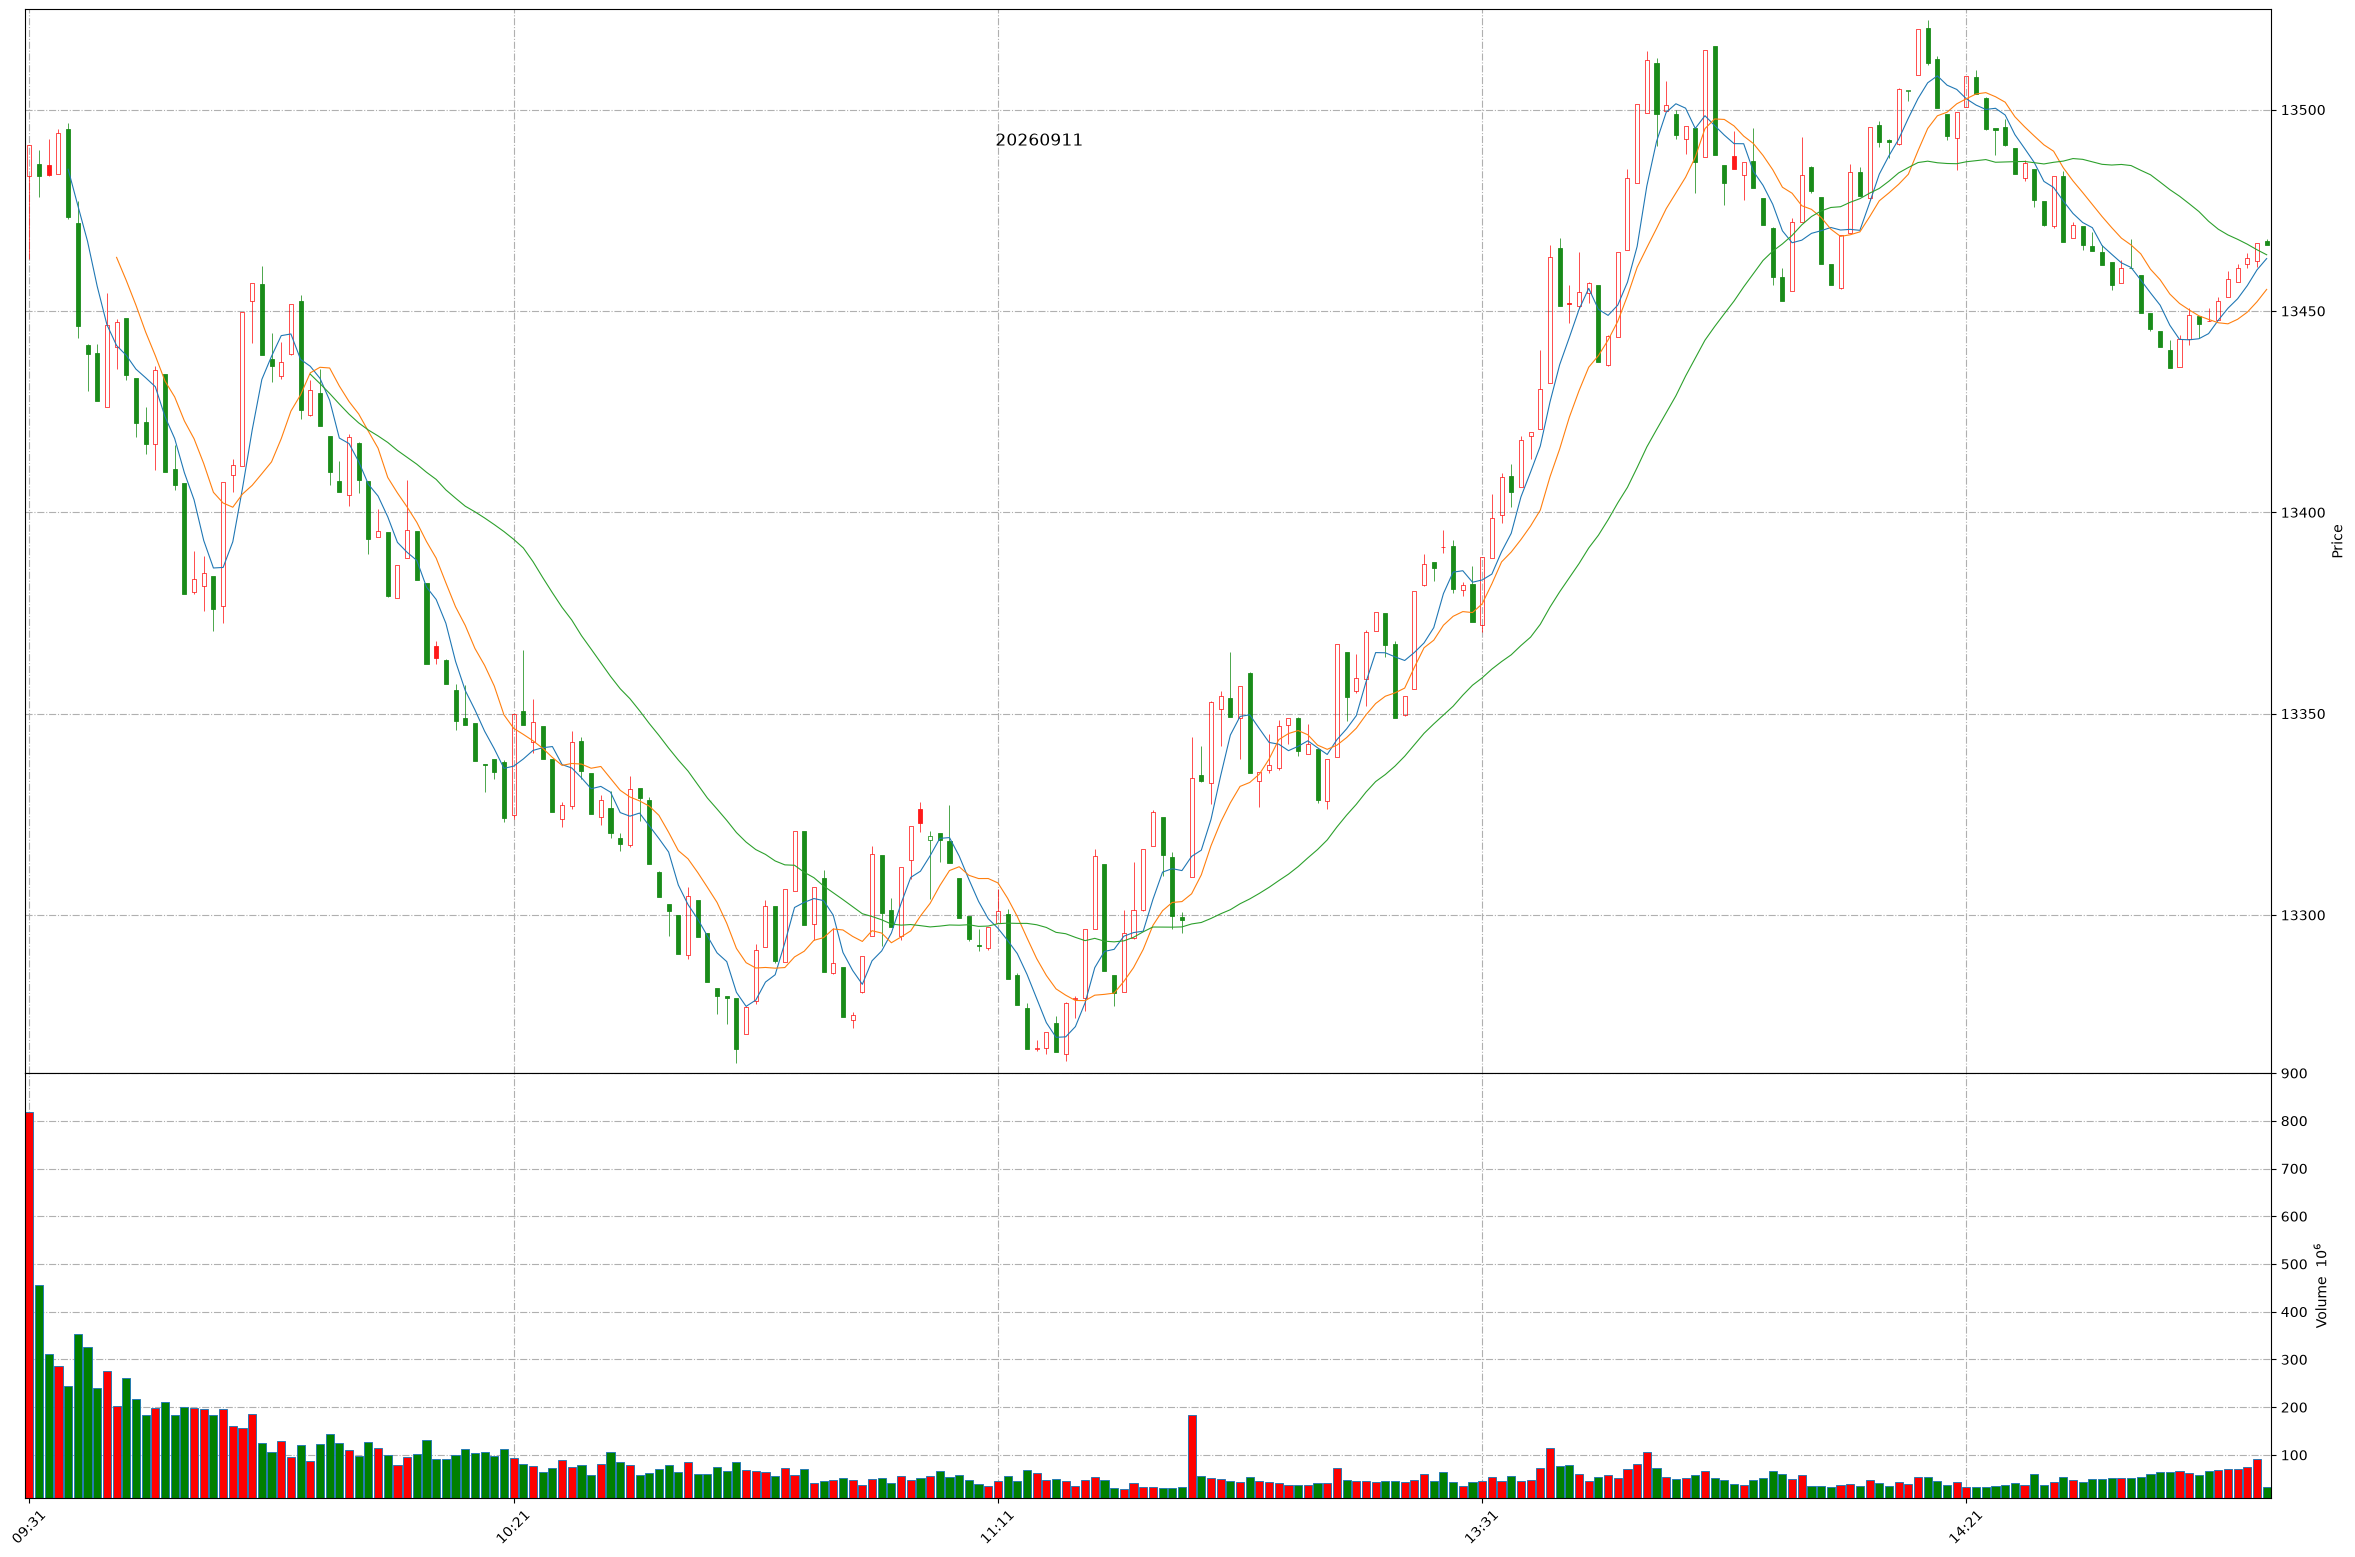
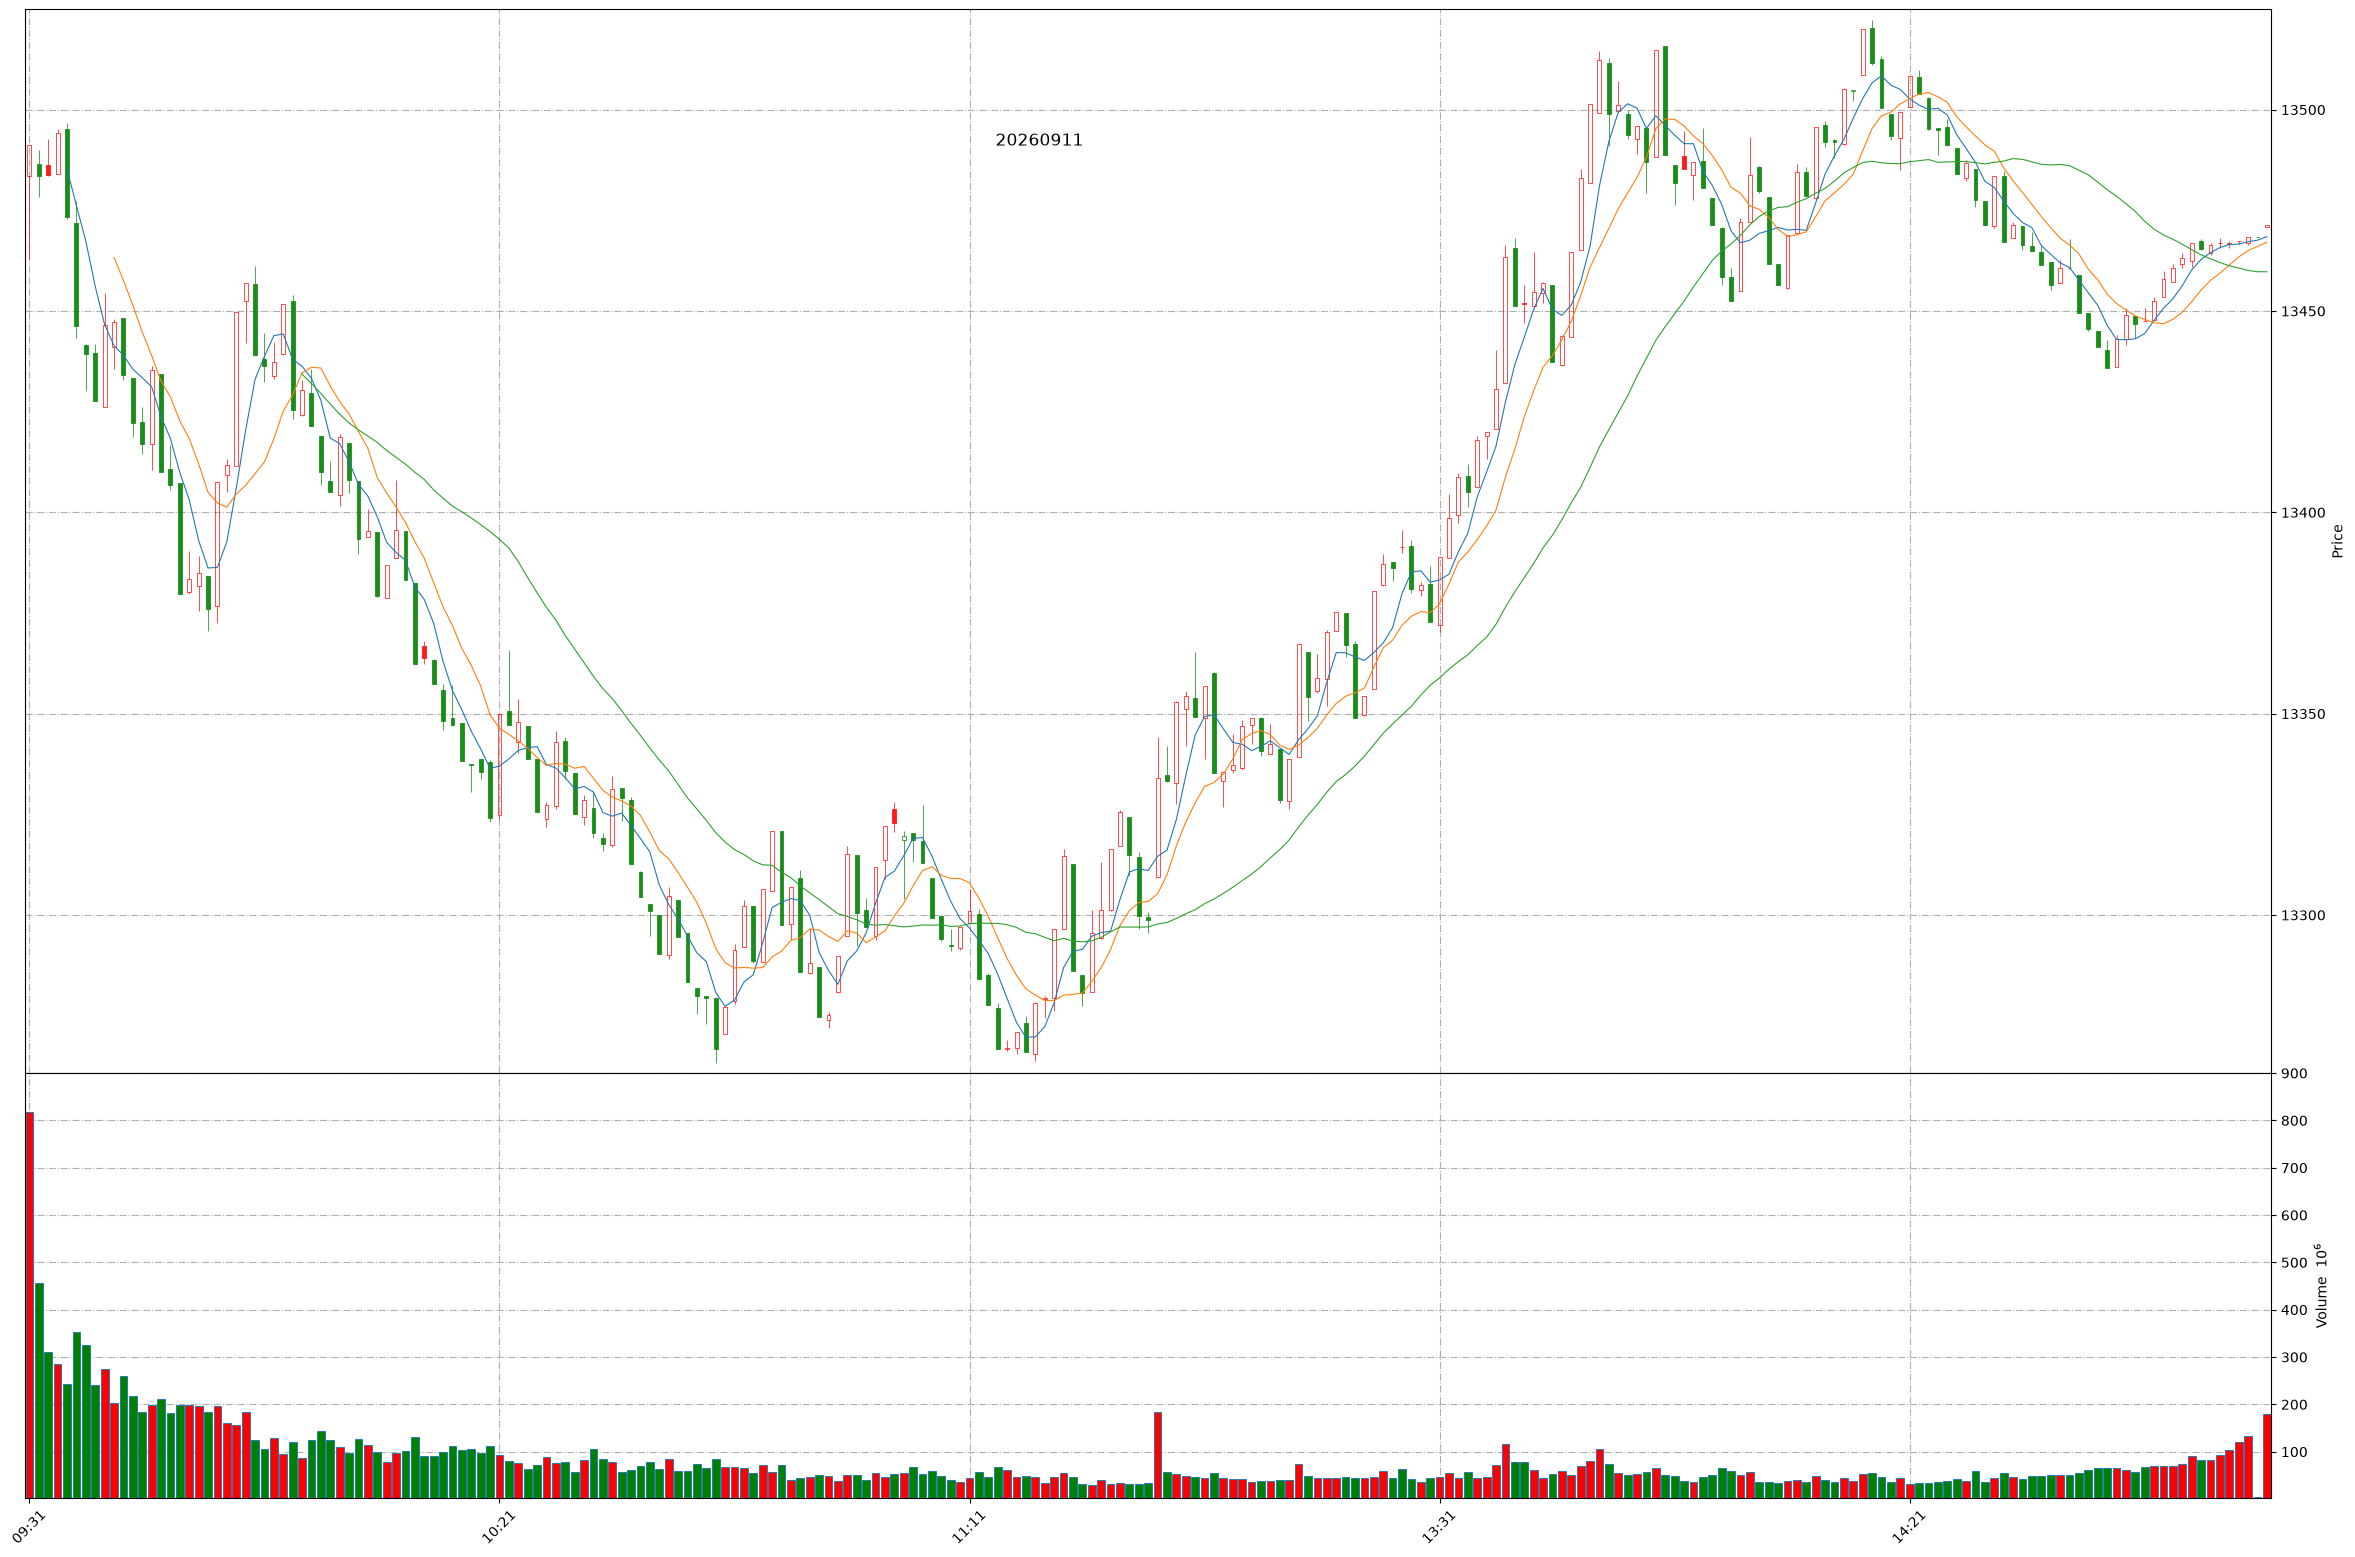
Github action update at 2026-09-11 15:01:00.

diff --git a/README.md b/README.md
@@ -1,11 +1,11 @@
 
 # Daily-A-share-market-quotes 每日 A 股指数（5min 更新）- 20260911
 
-### 上证指数 20260911 14:51
+### 上证指数 20260911 15:0
 ![](./fig/2026/9/20260911-sh000001.png)
 
-### 深证成指 20260911 14:51
+### 深证成指 20260911 15:0
 ![](./fig/2026/9/20260911-sz399001.png)
 
-### 北证50 20260911 14:51
+### 北证50 20260911 15:0
 ![](./fig/2026/9/20260911-bj899050.png)
